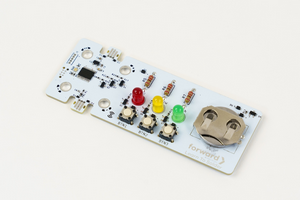
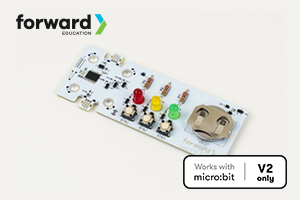
readme

Changed region(s): [[0.15, 0.21, 0.96, 0.96], [0.03, 0.06, 0.36, 0.18]]

diff --git a/test.ts b/test.ts
@@ -2,32 +2,26 @@
 // onEvent(event: jacdac.ButtonEvent, handler: () => void)
 // holdDuration(): number
 // isPressed(): boolean
-console.log("Button pressed? " + buttons.BTN1.isPressed())
-buttons.BTN1.onEvent(jacdac.ButtonEvent.Down, () => console.log("buttondown"))
-buttons.BTN1.onEvent(jacdac.ButtonEvent.Up, () => console.log("buttonup"))
-buttons.BTN1.onEvent(jacdac.ButtonEvent.Hold, () =>
-    console.log("Hold Duration: " + buttons.BTN1.holdDuration())
+console.log("Button pressed? " + fwdButtons.BTN1.isPressed())
+fwdButtons.BTN1.onEvent(jacdac.ButtonEvent.Down, () =>
+    console.log("buttondown")
+)
+fwdButtons.BTN1.onEvent(jacdac.ButtonEvent.Up, () => console.log("buttonup"))
+fwdButtons.BTN1.onEvent(jacdac.ButtonEvent.Hold, () =>
+    console.log("Hold Duration: " + fwdButtons.BTN1.holdDuration())
 )
 
 // light tests
-// setBrightness(value: number)
-lights.RED.setBrightness(0) // this line simply ensures the simulator pops up without having to press A
+// setOnOff(onOff: fwdEnums.OnOff)
+fwdLights.RED.setOnOff(fwdEnums.OnOff.Off) // this line simply ensures the simulator pops up without having to press A
 input.onButtonPressed(Button.A, function () {
     console.log("Test Start")
-    console.log(
-        "The brightness is changing every second for 6 seconds, but the Jacdac simulator only shows on / off."
-    )
     basic.pause(1000)
-    lights.RED.setBrightness(100)
+    fwdLights.RED.setOnOff(fwdEnums.OnOff.On)
+    console.log("Light on.")
     basic.pause(1000)
-    lights.RED.setBrightness(75)
+    fwdLights.RED.setOnOff(fwdEnums.OnOff.Off)
+    console.log("Light off.")
     basic.pause(1000)
-    lights.RED.setBrightness(50)
-    basic.pause(1000)
-    lights.RED.setBrightness(25)
-    basic.pause(1000)
-    lights.RED.setBrightness(10)
-    basic.pause(1000)
-    lights.RED.setBrightness(0)
     console.log("Test End")
 })

diff --git a/README.md b/README.md
@@ -1,6 +1,6 @@
-# pxt-learn-to-solder
+# pxt-fwd-solder-3b3l
 
-Smart Solder Kit, by Forward Education
+Smart Solder Kit, by Forward Education for micro:bit V2.
 
 Find us at [forwardedu.com](https://forwardedu.com/) and [learn.forwardedu.com](https://learn.forwardedu.com/). Learn more about the Hydroponics Kit on the [product page](https://forwardedu.com/products/smart-learn-to-solder-kit).
 
@@ -8,34 +8,88 @@ Find us at [forwardedu.com](https://forwardedu.com/) and [learn.forwardedu.com](
 
 Our learning systems are designed to simplify teaching coding and computer science for educators at all experience levels.
 Our Smart Solder Kit can be used on its own or joined with other kits to access our wider library of sensors, motors, lights, and buttons.
-Check out our lesson catalogue for curriculum-aligned lessons, including educator notes.
-A sample of coding with the Smart Solder Kit can be seen below.
+Check out our libraries of [lessons](https://learn.forwardedu.com/lesson-library), [projects](https://learn.forwardedu.com/projects/), and [tutorials](https://learn.forwardedu.com/tutorials/).
+Samples of coding with the Smart Solder Kit can be seen below. Up to 2 Smart Solder boards can be used simultaneously.
+With 2 smart solder boards you will need to assign roles in the MakeCode device view to ensure the button and light assignments are correct.
+With 1 smart solder board the button and light assignments are automatically assigned correctly for you in most cases.
 
-The green, yellow, and red lights simulate a traffic stop and the speed of the light change can be changed with the buttons.
+In this code the green, yellow, and red lights are turned on and off in a sequence that simulates a traffic light. The delay variable controls how long the light stays green, yellow, or red for (a light stays on for \<delay\> seconds). The delay variable can be set to 1000, 3000, or 5000 milliseconds using the onboard buttons.
 
 ```blocks
-buttons.BTN2.onEvent(jacdac.ButtonEvent.Down, function () {
+fwdButtons.BTN2.onEvent(jacdac.ButtonEvent.Down, function () {
     delay = 3000
 })
-buttons.BTN1.onEvent(jacdac.ButtonEvent.Down, function () {
+fwdButtons.BTN1.onEvent(jacdac.ButtonEvent.Down, function () {
     delay = 1000
 })
-buttons.BTN3.onEvent(jacdac.ButtonEvent.Down, function () {
+fwdButtons.BTN3.onEvent(jacdac.ButtonEvent.Down, function () {
     delay = 5000
 })
 let delay = 0
 delay = 3000
 basic.forever(function () {
-    lights.YELLOW.setBrightness(0)
-    lights.RED.setBrightness(100)
+    fwdLights.YELLOW.setOnOff(fwdEnums.OnOff.Off)
+    fwdLights.RED.setOnOff(fwdEnums.OnOff.On)
     basic.pause(delay)
-    lights.RED.setBrightness(0)
-    lights.GREEN.setBrightness(100)
+    fwdLights.RED.setOnOff(fwdEnums.OnOff.Off)
+    fwdLights.GREEN.setOnOff(fwdEnums.OnOff.On)
     basic.pause(delay)
-    lights.GREEN.setBrightness(0)
-    lights.YELLOW.setBrightness(100)
+    fwdLights.GREEN.setOnOff(fwdEnums.OnOff.Off)
+    fwdLights.YELLOW.setOnOff(fwdEnums.OnOff.On)
     basic.pause(delay)
 })
+```
+
+This code supports a survey. You are looking for red, yellow, and green items. When you find an item with one of these colors, you press the corresponding button. This will add 1 to tracking variables. You will be able to tell the last color you logged by which light is illuminated. Show the tracking variable values at any time by pressing A on the micro:bit. The results for each color will be displayed on the micro:bit for 5 seconds with the corresponding color light illuminated.
+
+```blocks
+fwdButtons.BTN3.onEvent(jacdac.ButtonEvent.Down, function () {
+    fwdLights.RED.setOnOff(fwdEnums.OnOff.On)
+    fwdLights.GREEN.setOnOff(fwdEnums.OnOff.Off)
+    fwdLights.YELLOW.setOnOff(fwdEnums.OnOff.Off)
+    redItems += 1
+    basic.showNumber(redItems)
+})
+fwdButtons.BTN2.onEvent(jacdac.ButtonEvent.Down, function () {
+    fwdLights.YELLOW.setOnOff(fwdEnums.OnOff.On)
+    fwdLights.GREEN.setOnOff(fwdEnums.OnOff.Off)
+    fwdLights.RED.setOnOff(fwdEnums.OnOff.Off)
+    yellowItems += 1
+    basic.showNumber(yellowItems)
+})
+input.onButtonPressed(Button.A, function () {
+    fwdLights.GREEN.setOnOff(fwdEnums.OnOff.On)
+    fwdLights.YELLOW.setOnOff(fwdEnums.OnOff.Off)
+    fwdLights.RED.setOnOff(fwdEnums.OnOff.Off)
+    basic.showNumber(greenItems)
+    basic.pause(5000)
+    fwdLights.GREEN.setOnOff(fwdEnums.OnOff.Off)
+    fwdLights.YELLOW.setOnOff(fwdEnums.OnOff.On)
+    basic.showNumber(yellowItems)
+    basic.pause(5000)
+    fwdLights.YELLOW.setOnOff(fwdEnums.OnOff.Off)
+    fwdLights.RED.setOnOff(fwdEnums.OnOff.On)
+    basic.showNumber(redItems)
+    basic.pause(5000)
+    fwdLights.RED.setOnOff(fwdEnums.OnOff.Off)
+    basic.clearScreen()
+})
+fwdButtons.BTN1.onEvent(jacdac.ButtonEvent.Down, function () {
+    fwdLights.GREEN.setOnOff(fwdEnums.OnOff.On)
+    fwdLights.YELLOW.setOnOff(fwdEnums.OnOff.Off)
+    fwdLights.RED.setOnOff(fwdEnums.OnOff.Off)
+    greenItems += 1
+    basic.showNumber(greenItems)
+})
+let yellowItems = 0
+let redItems = 0
+let greenItems = 0
+greenItems = 0
+redItems = 0
+yellowItems = 0
+fwdLights.GREEN.setOnOff(fwdEnums.OnOff.Off)
+fwdLights.RED.setOnOff(fwdEnums.OnOff.Off)
+fwdLights.YELLOW.setOnOff(fwdEnums.OnOff.Off)
 ```
 
 ## Supported Targets
